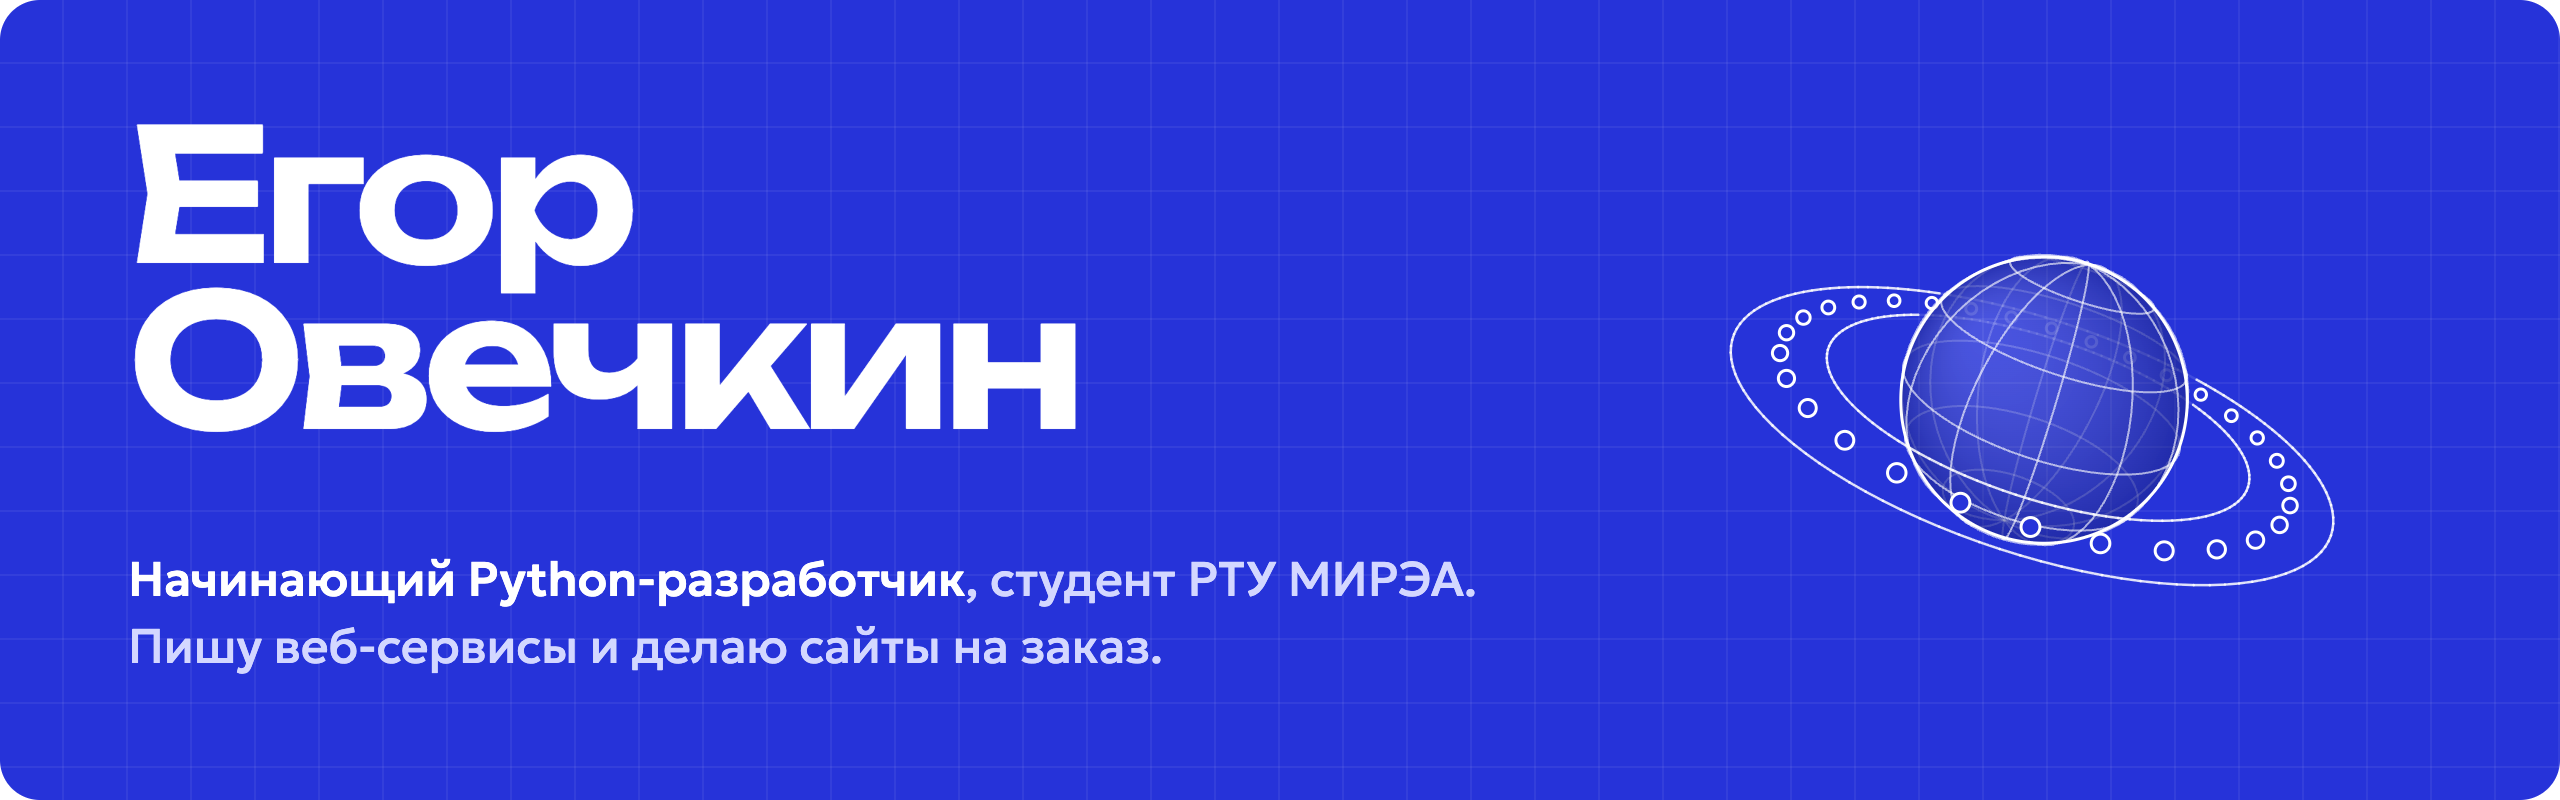
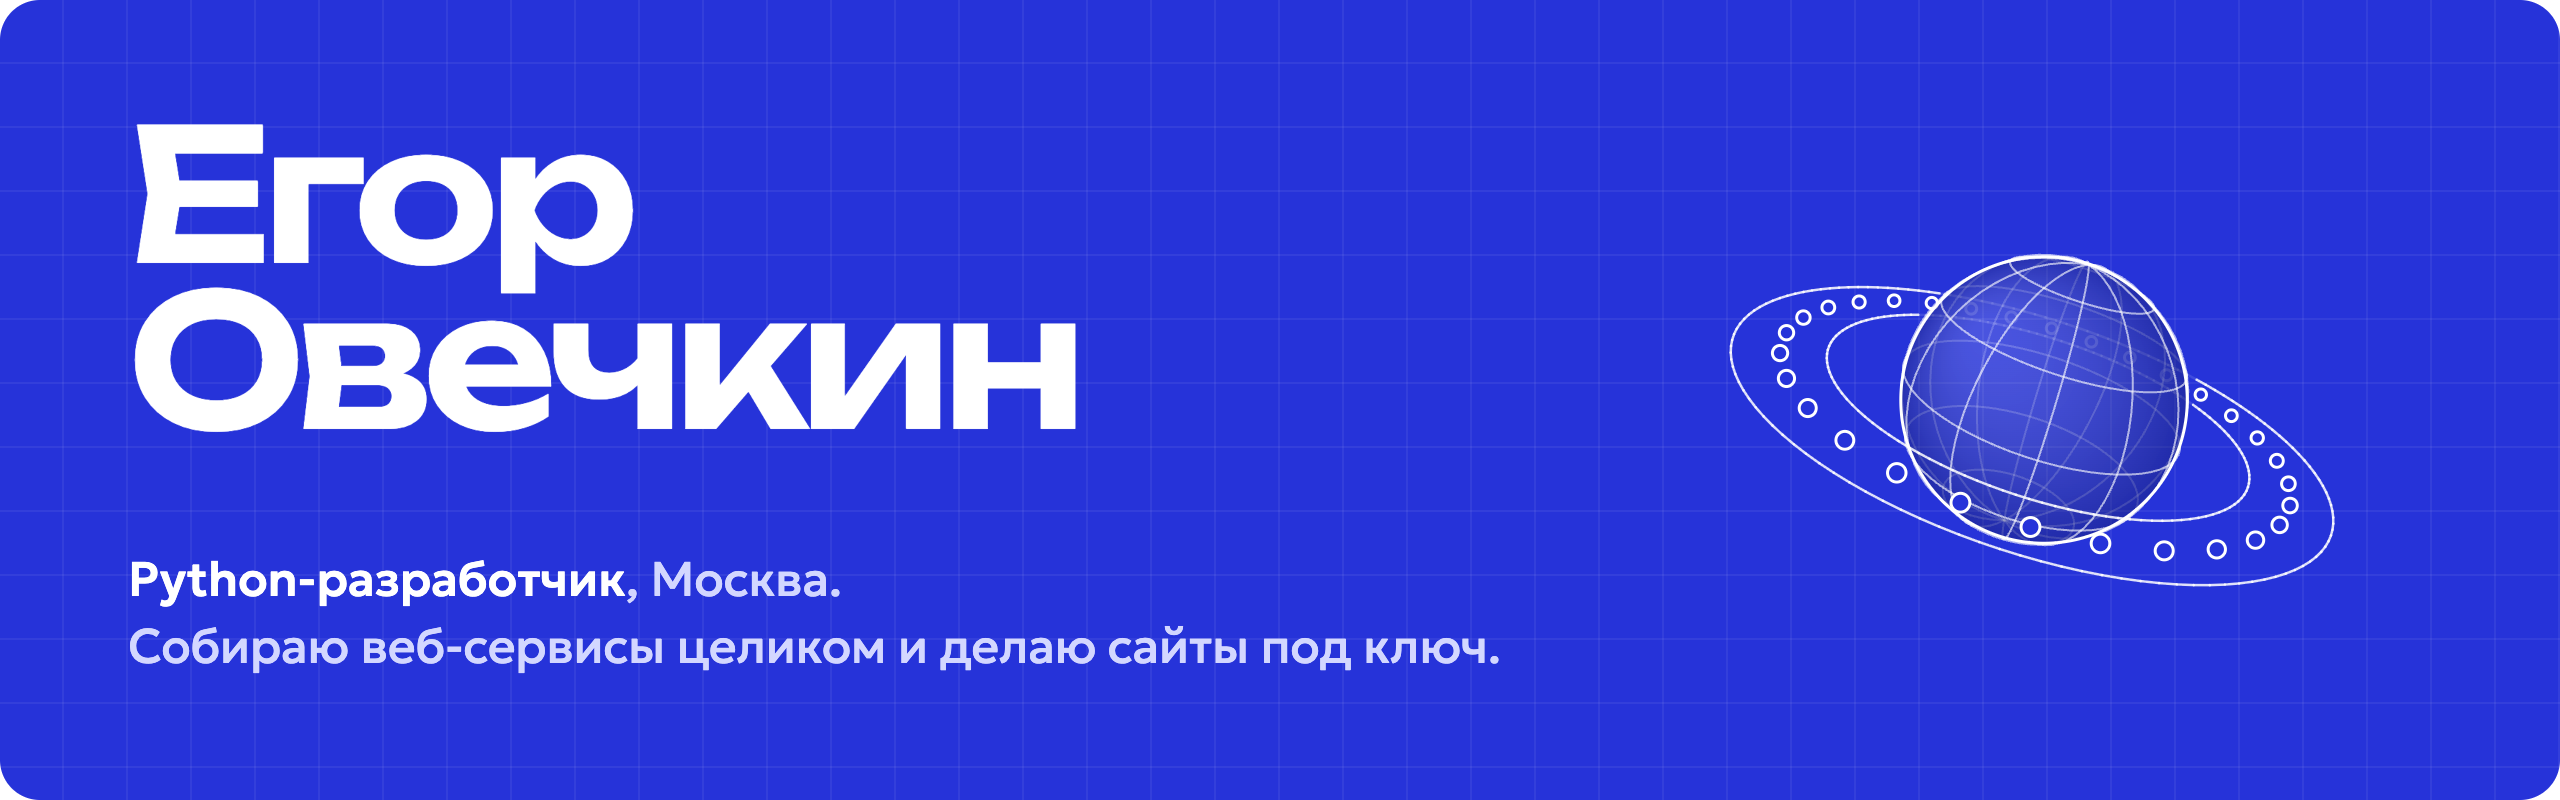
docs: position as Python developer, drop student and job-seeking lines

Changed region(s): [[0.0312, 0.7812, 0.5938, 0.8438], [0.0625, 0.6875, 0.5938, 0.75]]

diff --git a/README.md b/README.md
@@ -1,5 +1,5 @@
 <p>
-  <a href="https://egkodin.github.io/resume/"><img src="./assets/header.png" width="100%" alt="Егор Овечкин. Начинающий Python-разработчик, студент РТУ МИРЭА. Пишу веб-сервисы и делаю сайты на заказ."></a>
+  <a href="https://egkodin.github.io/resume/"><img src="./assets/header.png" width="100%" alt="Егор Овечкин. Python-разработчик, Москва. Собираю веб-сервисы целиком и делаю сайты под ключ."></a>
 </p>
 
 <p align="center">
@@ -8,7 +8,7 @@
   <a href="mailto:egor.coden@mail.ru"><img src="./assets/icons/mail.svg" height="20" alt=""> egor.coden@mail.ru</a>
 </p>
 
-Живу в Москве, учусь на бакалавриате с 2025 года. Собираю веб-сервисы целиком: схема базы, API, чат в реальном времени, тесты, запуск в Docker. Ищу стажировку или первую работу.
+Пишу код с 2020 года. Собираю веб-сервисы целиком: схема базы, API, чат в реальном времени, тесты, запуск в Docker.
 
 ## Проекты
 
@@ -31,5 +31,5 @@
 - [ДФК «Спартак» Снегири](https://egkodin.github.io/spartak-snegiri/), детская футбольная секция
 
 <p>
-  <img src="./assets/timeline.png" width="100%" alt="Проекты по годам: 2020 школьный портал; 2021 Django Blog, Textoom, Breakout Lite, Pylendar, чат по нику; 2022 сервер портала на Go; 2023 gpt-free.ru; 2025 поступил в РТУ МИРЭА; 2026 Saturn, OxiGram, Taglet, Asterframe, FRAME/01, Светослед, СпортАкадемКлуб, СЛОЙ, ДФК «Спартак».">
+  <img src="./assets/timeline.png" width="100%" alt="Проекты по годам: 2020 школьный портал; 2021 Django Blog, Textoom, Breakout Lite, Pylendar, чат по нику; 2022 сервер портала на Go; 2023 gpt-free.ru; 2026 Saturn, OxiGram, Taglet, Asterframe, FRAME/01, Светослед, СпортАкадемКлуб, СЛОЙ, ДФК «Спартак».">
 </p>
